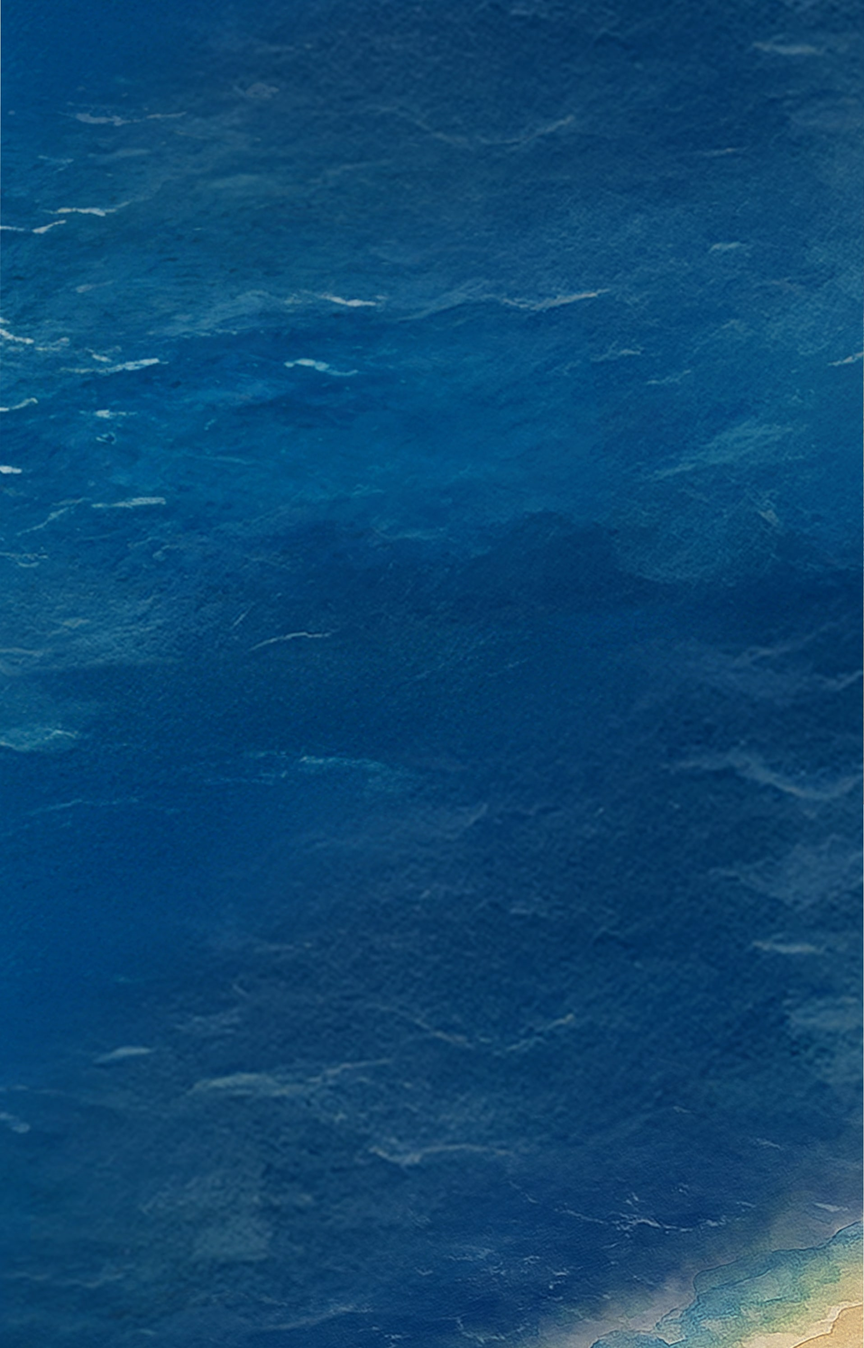
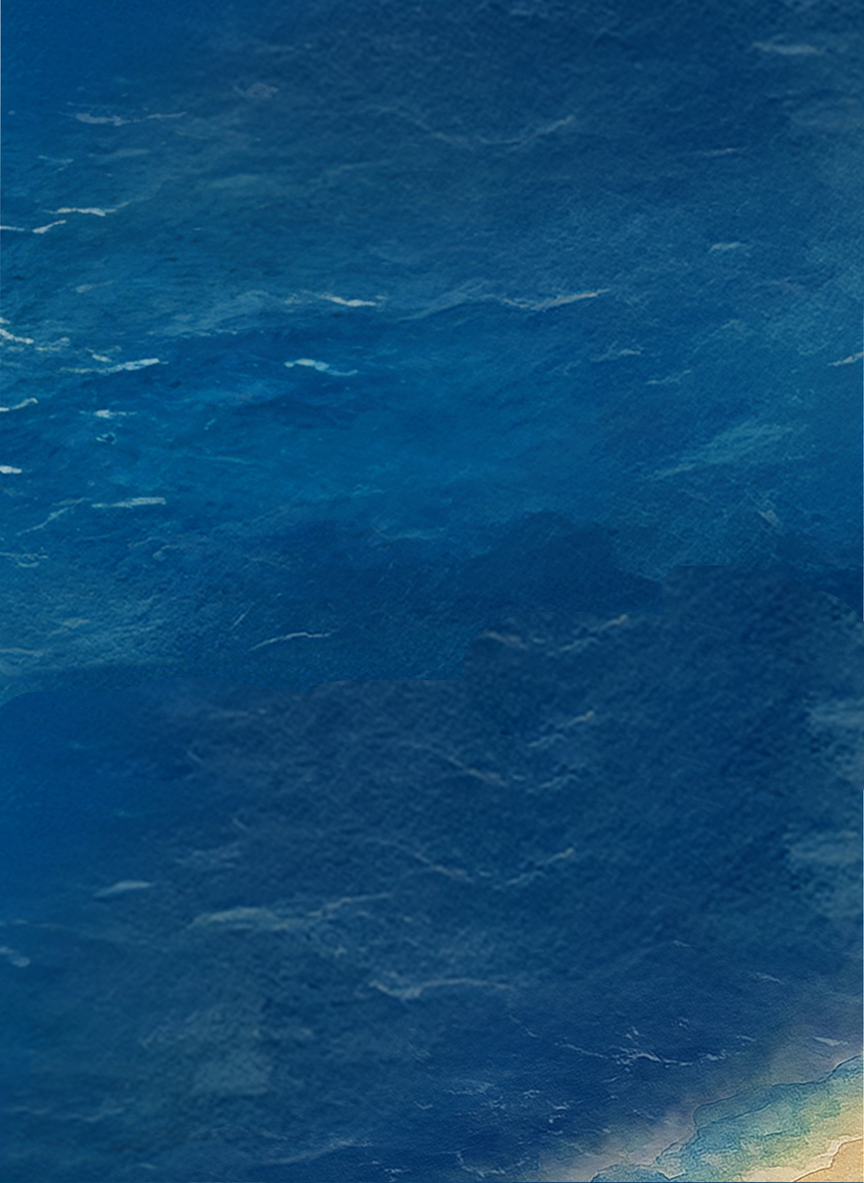
update css js image

diff --git a/dist/js/news.js b/dist/js/news.js
@@ -75,7 +75,7 @@ const animateThuyen = () => {
             if (window.innerWidth < 767) {
                 tl.to(".thuyen", {
                     right: "0%",
-                    bottom: "-1%",
+                    bottom: "-4%",
                     duration: timeRun,
                     ease: "power1.out"
                 });
@@ -321,7 +321,9 @@ function gsapNewsSectionAnimation() {
             scrollTrigger: {
                 trigger: section,
                 start: startValue,
-                toggleActions: "play reverse play reverse",
+                // toggleActions: "play reverse play reverse", //loop
+                toggleActions: "play none none none", // chỉ play 1 lần khi đi xuống
+
                 // markers: true
             }
         });

diff --git a/src/js/news.js b/src/js/news.js
@@ -75,7 +75,7 @@ const animateThuyen = () => {
             if (window.innerWidth < 767) {
                 tl.to(".thuyen", {
                     right: "0%",
-                    bottom: "-1%",
+                    bottom: "-4%",
                     duration: timeRun,
                     ease: "power1.out"
                 });
@@ -321,7 +321,9 @@ function gsapNewsSectionAnimation() {
             scrollTrigger: {
                 trigger: section,
                 start: startValue,
-                toggleActions: "play reverse play reverse",
+                // toggleActions: "play reverse play reverse", //loop
+                toggleActions: "play none none none", // chỉ play 1 lần khi đi xuống
+
                 // markers: true
             }
         });

diff --git a/dist/css/news.css b/dist/css/news.css
@@ -2231,6 +2231,15 @@ header.active .menu__link {
   margin-bottom: 4rem;
   padding-bottom: 3rem;
   font-size: 3rem;
+  display: -webkit-box;
+  display: -ms-flexbox;
+  display: flex;
+  -webkit-box-align: center;
+      -ms-flex-align: center;
+          align-items: center;
+  -webkit-box-pack: center;
+      -ms-flex-pack: center;
+          justify-content: center;
 }
 .news-hero__conchim{
   position: absolute;
@@ -2977,7 +2986,7 @@ header.active .menu__link {
 }
 .news .thuyen{
   width: 100%;
-  max-width: 30%;
+  max-width: 25%;
 }
 @media (min-width: 768px){
   .news .thuyen{
@@ -4267,6 +4276,9 @@ video {
 }
 .max-w-\[240px\]{
   max-width: 240px;
+}
+.max-w-\[25\%\]{
+  max-width: 25%;
 }
 .max-w-\[25rem\]{
   max-width: 25rem;

diff --git a/src/scss/_all_news.scss b/src/scss/_all_news.scss
@@ -148,7 +148,7 @@
         @apply max-w-[14rem] md:max-w-[29rem];
         @apply absolute top-auto;
         @apply bottom-[6%] md:bottom-[18%] right-[-11%] md:right-[-5%];
-        @apply max-w-[30%] md:max-w-[38rem] w-full;
+        @apply max-w-[25%] md:max-w-[38rem] w-full;
     }
     .footer {
         @apply static pt-[3rem];

diff --git a/src/scss/news/news-hero.scss b/src/scss/news/news-hero.scss
@@ -9,6 +9,7 @@
         @apply left-1/2 translate-x-[-50%];
         @apply text-white text-center;
         @apply pb-[3rem] text-[3rem] mb-[4rem];
+        @apply flex justify-center items-center;
     }
     &__conchim {
         @apply absolute w-full max-w-[34%] top-[4%] left-[-8%];

diff --git a/dist/css/app.css b/dist/css/app.css
@@ -4123,6 +4123,9 @@ video {
 .max-w-\[240px\]{
   max-width: 240px;
 }
+.max-w-\[25\%\]{
+  max-width: 25%;
+}
 .max-w-\[25rem\]{
   max-width: 25rem;
 }
